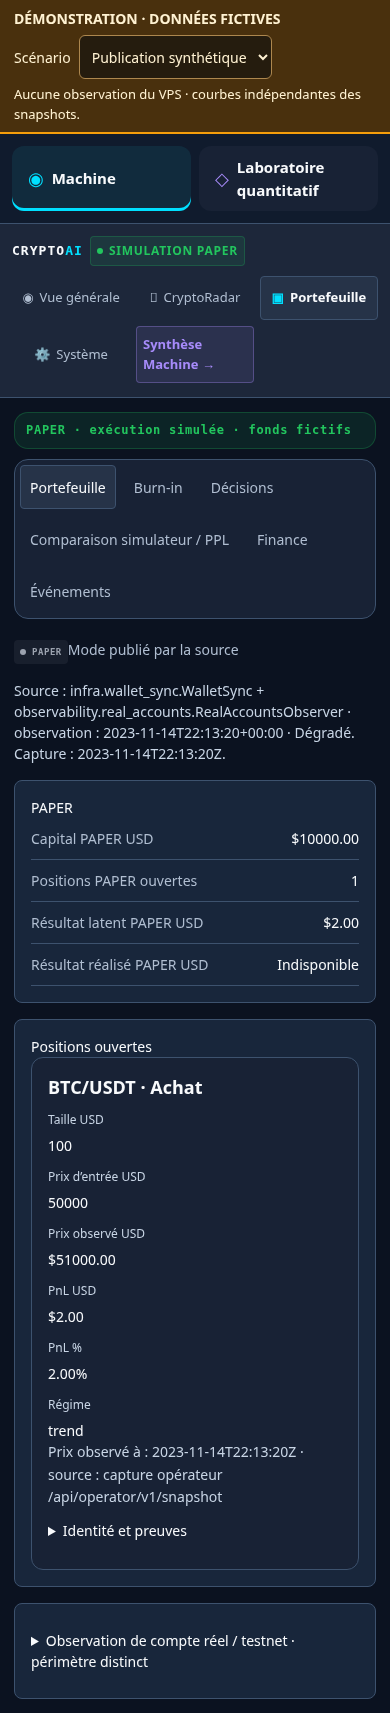
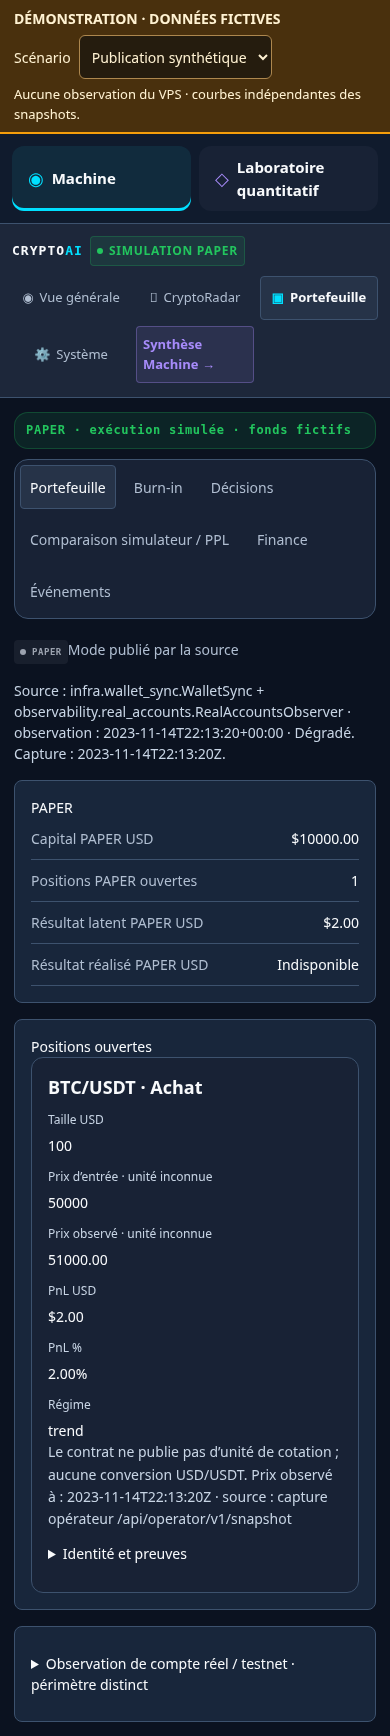
fix(operator): preserve unknown quote units for observed prices

diff --git a/frontend/src/views/PortfolioView.tsx b/frontend/src/views/PortfolioView.tsx
@@ -13,6 +13,7 @@ import { fr } from "../lib/presentationFr";
 import { isObservedValue } from "../lib/observedValue";
 
 const fmtUsd = (v: unknown) => (typeof v === "number" ? `$${v.toFixed(2)}` : String(v));
+const fmtPrice = (v: unknown) => (typeof v === "number" ? v.toFixed(2) : String(v));
 const fmtPct = (v: unknown) => (typeof v === "number" ? `${v.toFixed(2)}%` : String(v));
 
 const PositionRow: React.FC<{ pos: OpenPosition }> = ({ pos }) => (
@@ -22,7 +23,7 @@ const PositionRow: React.FC<{ pos: OpenPosition }> = ({ pos }) => (
     <td className="py-1.5 pr-3 font-mono text-xs">{pos.size_usd ?? "—"}</td>
     <td className="py-1.5 pr-3 font-mono text-xs">{pos.entry_price ?? "—"}</td>
     <td className="py-1.5 pr-3 font-mono text-xs">
-      <ObservedValueView ov={pos.current_price} render={fmtUsd} />
+      <ObservedValueView ov={pos.current_price} render={fmtPrice} />
     </td>
     <td className="py-1.5 pr-3 font-mono text-xs">
       <ObservedValueView ov={pos.unrealized_pnl_usd} render={fmtUsd} />
@@ -62,7 +63,7 @@ const PositionsTable: React.FC<{ positions: OpenPosition[] }> = ({ positions }) 
     <table className="w-full">
       <thead>
         <tr className="text-left" style={{ color: "var(--text-muted)" }}>
-          {["Symbole", "Sens", "Taille USD", "Entrée", "Prix actuel", "Résultat latent USD", "Résultat latent %", "Régime", "Source TP/SL", "Profil"].map((h) => (
+          {["Symbole", "Sens", "Taille USD", "Entrée · unité inconnue", "Prix observé · unité inconnue", "Résultat latent USD", "Résultat latent %", "Régime", "Source TP/SL", "Profil"].map((h) => (
             <th key={h} className="font-mono text-[10px] font-normal pb-1 pr-3">
               {h}
             </th>
@@ -80,12 +81,12 @@ const PositionsTable: React.FC<{ positions: OpenPosition[] }> = ({ positions }) 
     {positions.map((pos) => <article className="portfolio-position-card" key={pos.position_id || pos.symbol}>
       <h3>{pos.symbol} · {fr(pos.side?.toUpperCase())}</h3><dl>
         <div><dt>Taille USD</dt><dd>{pos.size_usd ?? "—"}</dd></div>
-        <div><dt>Prix d’entrée USD</dt><dd>{pos.entry_price ?? "—"}</dd></div>
-        <div><dt>Prix observé USD</dt><dd><ObservedValueView ov={pos.current_price} render={fmtUsd} /></dd></div>
+        <div><dt>Prix d’entrée · unité inconnue</dt><dd>{pos.entry_price ?? "—"}</dd></div>
+        <div><dt>Prix observé · unité inconnue</dt><dd><ObservedValueView ov={pos.current_price} render={fmtPrice} /></dd></div>
         <div><dt>PnL USD</dt><dd><ObservedValueView ov={pos.unrealized_pnl_usd} render={fmtUsd} /></dd></div>
         <div><dt>PnL %</dt><dd><ObservedValueView ov={pos.unrealized_pnl_pct} render={fmtPct} /></dd></div>
         <div><dt>Régime</dt><dd><ObservedValueView ov={pos.regime} />{pos.restored_without_regime && <span> · restaurée sans régime</span>}</dd></div>
-      </dl><p className="source-date">Prix observé à : {pos.current_price_observed_at_utc ?? "Inconnu"} · source : capture opérateur /api/operator/v1/snapshot</p>
+      </dl><p className="source-date">Le contrat ne publie pas d’unité de cotation ; aucune conversion USD/USDT. Prix observé à : {pos.current_price_observed_at_utc ?? "Inconnu"} · source : capture opérateur /api/operator/v1/snapshot</p>
       <details><summary>Identité et preuves</summary><p>{pos.position_id} · TP/SL : {pos.tp_sl_source} · profil : {pos.personality ?? "Inconnu"}</p>
         <p>Prix : référence individuelle inconnue · PnL : capture opérateur · date de valorisation individuelle inconnue</p>
         <p>Preuve PnL : référence individuelle inconnue. Valeurs publiées, aucun calcul ici.</p></details>

diff --git a/frontend/src/test/PortfolioView.test.tsx b/frontend/src/test/PortfolioView.test.tsx
@@ -151,3 +151,13 @@ describe("PortfolioView", () => {
     expect(section.getByTestId("ov-invalid")).toHaveTextContent("INVALID_OBSERVED_VALUE");
   });
 });
+
+// Une valeur de prix ne certifie pas sa devise de cotation.
+it("ne transforme pas un prix sans unité contractuelle en USD", () => {
+  const snapshot = baseSnapshot();
+  snapshot.portfolio.open_positions = {semantics:"PRESENT",value:[{position_id:"unit-proof",symbol:"BTC/USDT",side:"BUY",size_usd:10,entry_price:50000,current_price:{semantics:"PRESENT",value:51000},current_price_observed_at_utc:null,tp_price:null,sl_price:null,tp_sl_source:"original",unrealized_pnl_usd:{semantics:"PRESENT",value:2},unrealized_pnl_pct:{semantics:"PRESENT",value:2},opened_at:null,regime:{semantics:"UNKNOWN",value:null},restored_without_regime:false,personality:null,restored:false}]};
+  render(<PortfolioView snapshot={snapshot}/>);
+  expect(screen.getByTestId("portfolio-mobile-positions")).toHaveTextContent("unité inconnue");
+  expect(screen.getByTestId("portfolio-mobile-positions")).not.toHaveTextContent("$51000");
+  expect(screen.getByTestId("portfolio-mobile-positions")).toHaveTextContent("$2.00");
+});

diff --git a/docs/audit/operator-mobile/AUDIT_ET_RUNBOOK.md b/docs/audit/operator-mobile/AUDIT_ET_RUNBOOK.md
@@ -23,6 +23,7 @@ GitHub apporte des preuves source ; il ne prouve pas l’état actuel du VPS.
 | Historique comptable dupliqué | `DirectionOverview` et `FinancialReconciliationView` montaient `FinancialHistory` | Correction de présentation seulement |
 | Décisions illisibles | Tableau unique large, sans recherche ni filtres | Lecture Android déclarée ; tests navigateur synthétiques ajoutés |
 | Vue générale technique | Identités et statuts bruts au premier niveau | Pas de preuve suffisante pour affirmer une santé globale |
+| Unité des prix | `OpenPosition` et `operator_snapshot_builder.py` ne publient pas de devise de cotation | Prix sans symbole dollar, unité explicitement inconnue ; taille et PnL USD conservés |
 | Portefeuille | Cartes mobiles existantes ; longues identités et preuves insuffisamment contraintes | Risque de débordement vérifié sur fixtures locales, pas sur Android réel |
 | Research 503 | Route frontend et API concordantes ; lecteur strict renvoie `RESEARCH_LAB_SNAPSHOT_MISSING` lorsque son chemin n’existe pas | Publication absente au chemin lu selon l’erreur déclarée ; mauvaise configuration, montage, lien cassé ou absence du producteur restent inconnus |
 | Burn-in 503 | Route frontend et API concordantes ; lecteur strict renvoie `BURN_IN_STATUS_MISSING` | Même limite : aucun mauvais chemin frontend démontré, configuration réelle non inspectée |
@@ -145,6 +146,8 @@ Les snapshots peuvent être valides mais historiquement anciens. Les comptes
 Décisions couvrent uniquement les lignes publiées, pas une population exhaustive.
 Les états inconnus des bloqueurs sont conservés dans leur répartition.
 Les cartes affichent uniquement les unités définies par les contrats existants ;
+le contrat portefeuille n’expose pas d’unité de cotation des prix : elle est
+explicitement inconnue et le prix ne reçoit plus de symbole dollar.
 aucune conversion USD/USDT ni nouveau calcul PnL n’est introduit.
 Les essais Chromium ne remplacent pas une validation Android/TalkBack réelle.
 Les accès aux fichiers runtime et producteurs n’étant pas observés, les causes
@@ -190,7 +193,7 @@ npm run test:runtime --prefix frontend
 python -m pytest -q tests/test_operator_api.py tests/test_operator_burn_in_api.py tests/test_web_rl_research_lab.py tests/test_operator_api_financial_reconciliation.py tests/test_ppl_accounting_history.py tests/test_pre_t1_c_portfolio_provider_read_only.py
 ```
 
-Résultats locaux : 429 tests frontend (y compris compatibilité cross-stack,
+Résultats locaux : 430 tests frontend (y compris compatibilité cross-stack,
 Decimal, unités et trois modes comptables), 254 tests Python pertinents,
 8 tests bootstrap/PWA ; build réussi. États loading, missing, stale,
 degraded et available couverts par les suites et la preuve navigateur.
